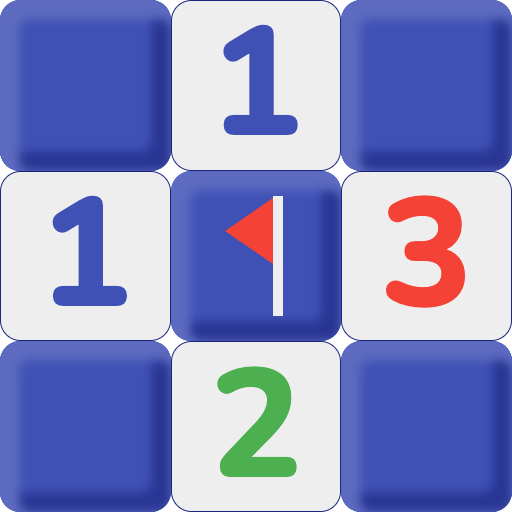
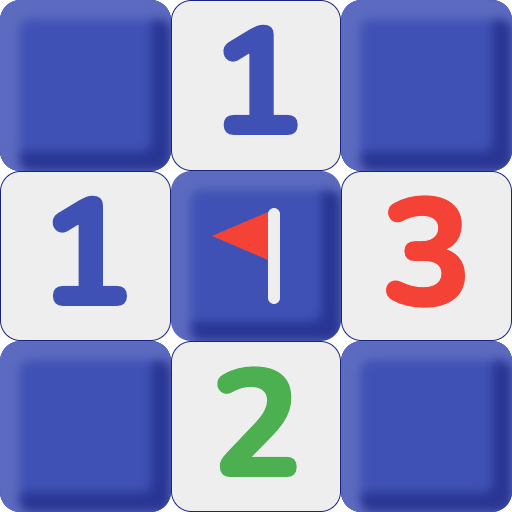
Make flags SVG

Changed region(s): [[0.4062, 0.375, 0.5625, 0.625]]

diff --git a/style.css b/style.css
@@ -77,43 +77,19 @@ main {
 	margin: auto;
 }
 
-.flag-icon:before {
-	content: "";
-	position: absolute;
-	top: 15%;
-	right: 34%;
-	display: block;
-	height: 70%;
-	width: 6%;
-	background-color: #EEEEEE;
+.flag-icon {
+	background-image: url('assets/flag.svg');
+	background-repeat: no-repeat;
+	background-size: 75%;
+	background-position: center;
 }
 
-.flag-icon--broken:before {
-	transform: translateX(-.5vw) rotate(20deg);
+.square--open.flag-icon {
+	background-image: url('assets/flag-dark.svg');
 }
 
-.square--open.flag-icon:before {
-	background-color: #212121;
-}
-
-.square.flag-icon {
-	position: relative;
-}
-
-.flag-icon:after {
-	content: "";
-	position: absolute;
-	top: 16%;
-	right: 40%;
-	display: block;
-	border-style: solid;
-	border-width: 2vw 3vw 2vw 0;
-	border-color: transparent #f44336 transparent transparent;
-}
-
-.flag-icon--broken:after {
-	transform: translateX(-.5vw) rotate(20deg) translateX(4.2vw) rotateY(160deg);
-	border-color: transparent #212121 transparent transparent;
+.flag-icon.flag-icon--broken {
+	background-image: url('assets/flag-broken.svg');
 }
 
 .disabled {
@@ -315,18 +291,6 @@ table {
 		height: 11.11vh;
 		box-shadow: 0.5vh 0.5vh 0.5vh 0.5vh #5C6BC0 inset, -0.5vh -0.5vh 0.5vh 0.5vh #283593 inset;
 	}
-
-	.flag-icon:after {
-		border-width: 2vh 3vh 2vh 0;
-	}
-
-	.flag-icon--broken:before {
-		transform: translateX(-.5vh) rotate(20deg);
-	}
-	
-	.flag-icon--broken:after {
-		transform: translateX(-.5vh) rotate(20deg) translateX(4.2vh) rotateY(160deg);
-	}
 }
 
 @media only screen and (min-width: 450px) and (min-height: 450px) {
@@ -360,20 +324,8 @@ table {
 		height: 35.5px;
 		box-shadow: 2px 2px 2px 2px #5C6BC0 inset, -2px -2px 2px 2px #283593 inset;
 	}
-	
-	.flag-icon:after {
-		border-width: 7px 10px 7px 0;
-	}
 
 	.popup {
 		width: 284px;
-	}
-
-	.flag-icon--broken:before {
-		transform: translateX(-4px) rotate(20deg);
-	}
-	
-	.flag-icon--broken:after {
-		transform: translateX(-4px) rotate(20deg) translateX(14px) rotateY(160deg);
 	}
 }

diff --git a/icon.html b/icon.html
@@ -13,8 +13,6 @@
       --icon-size: calc(var(--canvas-size) * var(--content-ratio));
       --square-size: calc(var(--icon-size) / 3);
       --bevel: calc(var(--icon-size) * 0.01875);
-      --flag-border-y: calc(var(--icon-size) * 0.065);
-      --flag-border-x: calc(var(--icon-size) * 0.094);
       --main-radius: calc(var(--icon-size) * 0.02);
     }
 
@@ -68,30 +66,11 @@
       line-height: 0;
     }
 
-    .flag-icon:before {
-      content: "";
-      position: absolute;
-      top: 15%;
-      right: 34%;
-      display: block;
-      height: 70%;
-      width: 6%;
-      background-color: #EEEEEE;
-    }
-
-    .square.flag-icon {
-      position: relative;
-    }
-
-    .flag-icon:after {
-      content: "";
-      position: absolute;
-      top: 16%;
-      right: 40%;
-      display: block;
-      border-style: solid;
-      border-width: var(--flag-border-y) var(--flag-border-x) var(--flag-border-y) 0;
-      border-color: transparent #f44336 transparent transparent;
+    .flag-icon {
+      background-image: url('assets/flag.svg');
+      background-repeat: no-repeat;
+      background-size: 75%;
+      background-position: center;
     }
 
     .square {

diff --git a/sw.js b/sw.js
@@ -1,5 +1,5 @@
 /* sync-sw-assets:start */
-const CACHE_NAME = 'minesweeper-65882e5';
+const CACHE_NAME = 'minesweeper-f00cf47';
 const ASSETS = [
   './',
   './index.html',
@@ -13,6 +13,9 @@ const ASSETS = [
   './app-icons/icon-512-maskable.png',
   './app-icons/icon-512.png',
   './assets/explosion.svg',
+  './assets/flag-broken.svg',
+  './assets/flag-dark.svg',
+  './assets/flag.svg',
   './assets/restart.svg',
   './assets/sea-mine.svg',
 ];
